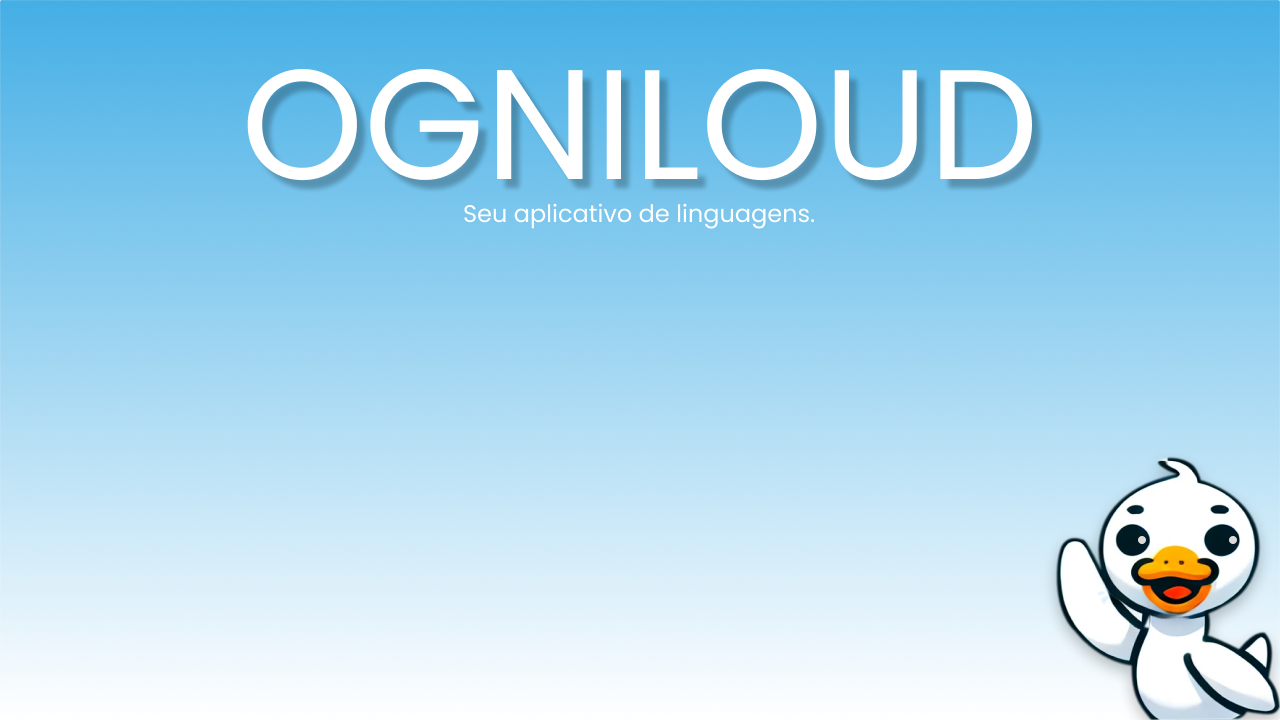
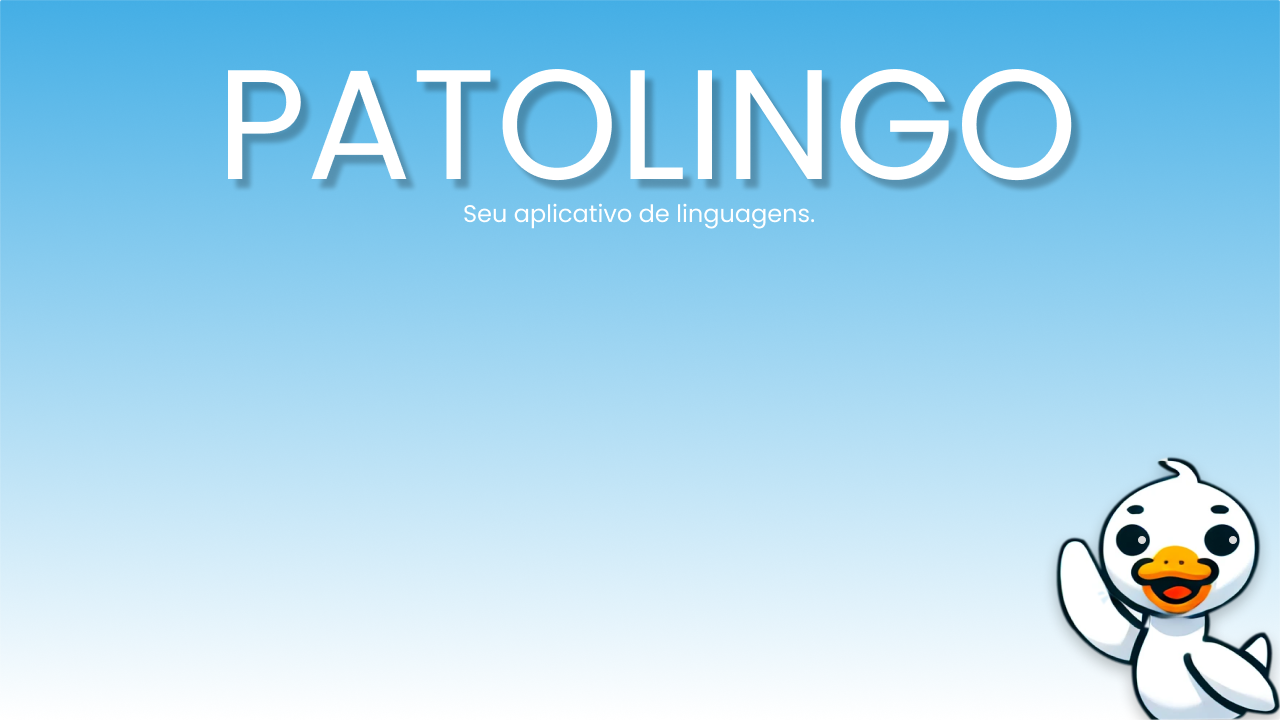
feat: - Alteração nos tamanho de botões da tela inicial, tela login e tela cadastro. - Removido arquivo BDD.sql enviado por engano e não interfere em nada. - Atualizado o nome do frame de "OGNILOUD" para "PATOLINGO". - Atualizada a imagem da tela inicial que mostrava "OGNILOUD" passando a mostrar "P

Changed region(s): [[0.1562, 0.0917, 0.8438, 0.275]]

diff --git a/src/java/Grafica/TelaInicial.java b/src/java/Grafica/TelaInicial.java
@@ -33,10 +33,12 @@ public class TelaInicial {
         painelCentral.add(Box.createVerticalStrut(150));
 
 
-        RoundedButton botaoLogin = new RoundedButton("Logar", 30);
+        RoundedButton botaoLogin = new RoundedButton("Logar", 80);
         botaoLogin.setFont(new Font("Arial", Font.BOLD, 50));
         botaoLogin.setAlignmentX(JButton.CENTER_ALIGNMENT);
-        botaoLogin.setMaximumSize(new Dimension(411, 80));
+        botaoLogin.setMaximumSize(new Dimension(411, 100));
+        botaoLogin.setPreferredSize(new Dimension(411, 100));
+        botaoLogin.setMinimumSize(new Dimension(411, 100));
         botaoLogin.setBackground(new Color(65, 184, 190));
         botaoLogin.setForeground(Color.WHITE);
         botaoLogin.setFocusPainted(false);
@@ -46,10 +48,12 @@ public class TelaInicial {
         painelCentral.add(Box.createVerticalStrut(50));
 
 
-        RoundedButton botaoCadastrar = new RoundedButton("Cadastrar-se", 30);
+        RoundedButton botaoCadastrar = new RoundedButton("Cadastrar-se", 80);
         botaoCadastrar.setFont(new Font("Arial", Font.BOLD, 50));
         botaoCadastrar.setAlignmentX(JButton.CENTER_ALIGNMENT);
-        botaoCadastrar.setMaximumSize(new Dimension(411, 70));
+        botaoCadastrar.setMaximumSize(new Dimension(411, 100));
+        botaoCadastrar.setPreferredSize(new Dimension(411, 100));
+        botaoCadastrar.setMinimumSize(new Dimension(411, 100));
         botaoCadastrar.setBackground(new Color(65, 184, 190));
         botaoCadastrar.setForeground(Color.WHITE);
         botaoCadastrar.setFocusPainted(false);

diff --git a/src/java/Grafica/TelaLogin.java b/src/java/Grafica/TelaLogin.java
@@ -82,11 +82,11 @@ public class TelaLogin {
 
 
         RoundedButton botaoEntrar = new RoundedButton("Entrar", 30);
-        botaoEntrar.setFont(new Font("Arial", Font.BOLD, 50));
+        botaoEntrar.setFont(new Font("Arial", Font.BOLD, 40));
         botaoEntrar.setAlignmentX(JButton.CENTER_ALIGNMENT);
-        botaoEntrar.setMaximumSize(new Dimension(411, 80));
-        botaoEntrar.setPreferredSize(new Dimension(411, 80));
-        botaoEntrar.setMinimumSize(new Dimension(411, 80));
+        botaoEntrar.setMaximumSize(new Dimension(411, 70));
+        botaoEntrar.setPreferredSize(new Dimension(411, 70));
+        botaoEntrar.setMinimumSize(new Dimension(411, 70));
         botaoEntrar.setBackground(new Color(65, 184, 190));
         botaoEntrar.setForeground(Color.WHITE);
 

diff --git a/src/java/Grafica/TelaCadastro.java b/src/java/Grafica/TelaCadastro.java
@@ -130,7 +130,7 @@ public class TelaCadastro {
 
 
         RoundedButton botaoCadastrar = new RoundedButton("Cadastrar-se", 30);
-        botaoCadastrar.setFont(new Font("Arial", Font.BOLD, 30));
+        botaoCadastrar.setFont(new Font("Arial", Font.BOLD, 40));
         botaoCadastrar.setAlignmentX(JButton.CENTER_ALIGNMENT);
         botaoCadastrar.setMaximumSize(new Dimension(411, 60));
         botaoCadastrar.setPreferredSize(new Dimension(411, 60));

diff --git a/src/java/Main/Main.java b/src/java/Main/Main.java
@@ -11,7 +11,7 @@ public class Main {
     public static void main(String[] args) {
         try {
             bancoDeDados = new BancoDeDados();
-            JFrame frame = new JFrame("OGNILOUD");
+            JFrame frame = new JFrame("PATOLINGO");
             frame.setSize(1280, 720);
             frame.setDefaultCloseOperation(JFrame.EXIT_ON_CLOSE);
             frame.setLayout(null);
